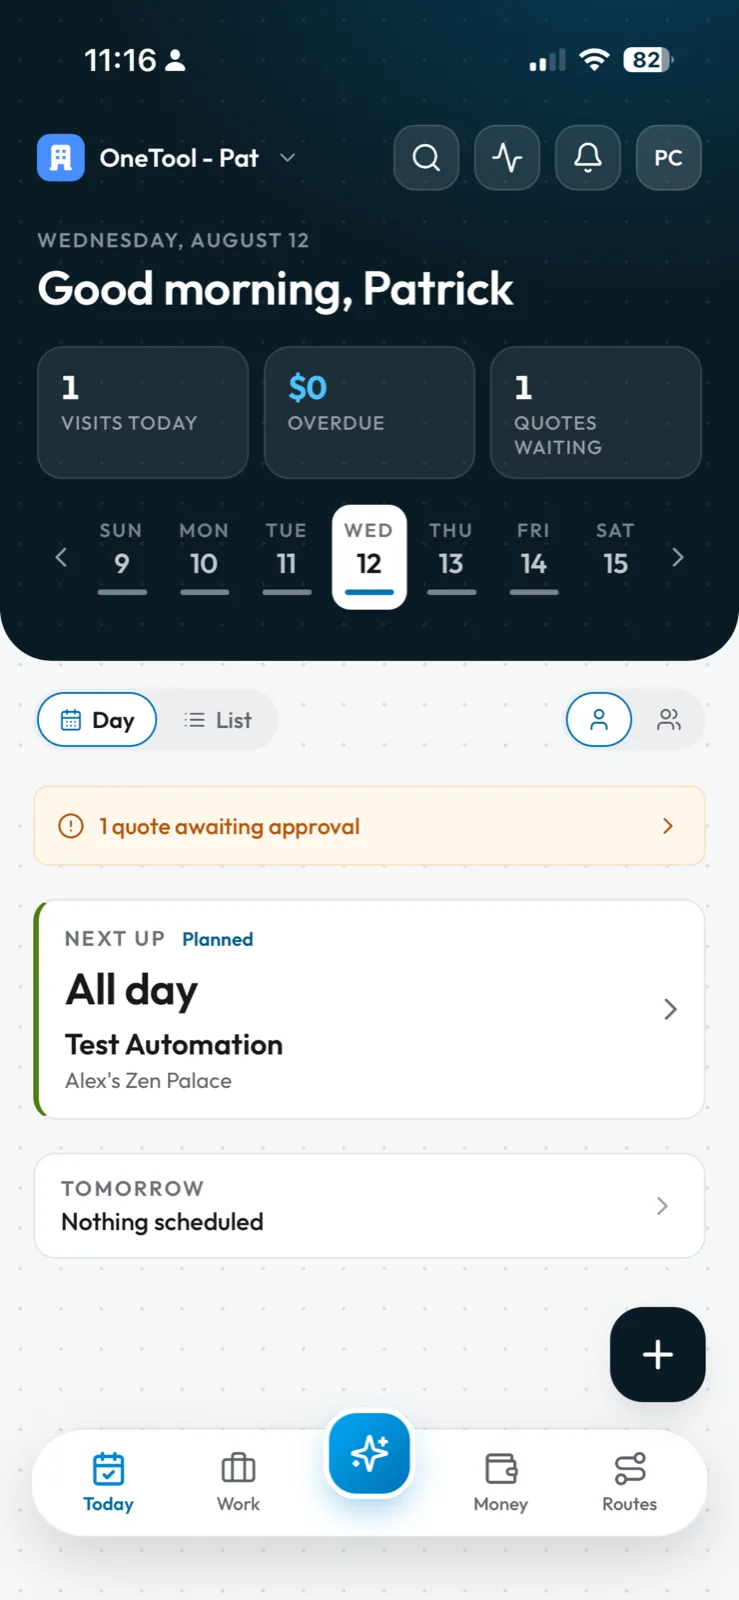
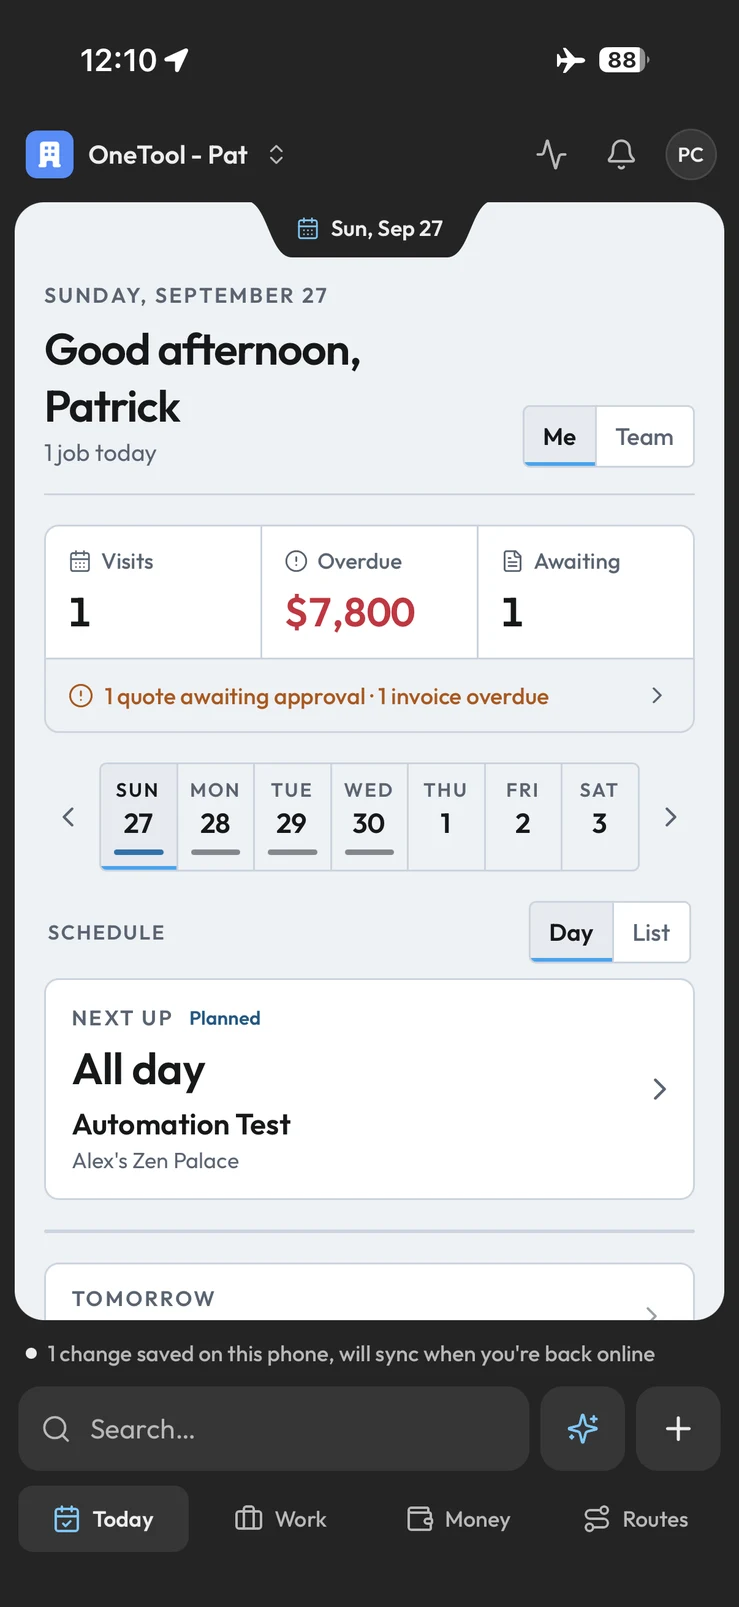
style(web): show the current iPhone Today screen on the landing page

diff --git a/apps/web/src/app/components/marketing/sections/on-the-job.tsx b/apps/web/src/app/components/marketing/sections/on-the-job.tsx
@@ -78,7 +78,7 @@ export function OnTheJob() {
 					<Iphone
 						src="/landing/app-today.webp"
 						role="img"
-						aria-label="The OneTool iOS app open on the day's schedule, with visits, overdue total and quotes waiting"
+						aria-label="The OneTool iOS app open on the day's schedule, with visits, the overdue total and a change saved offline"
 					/>
 				</div>
 			</div>
